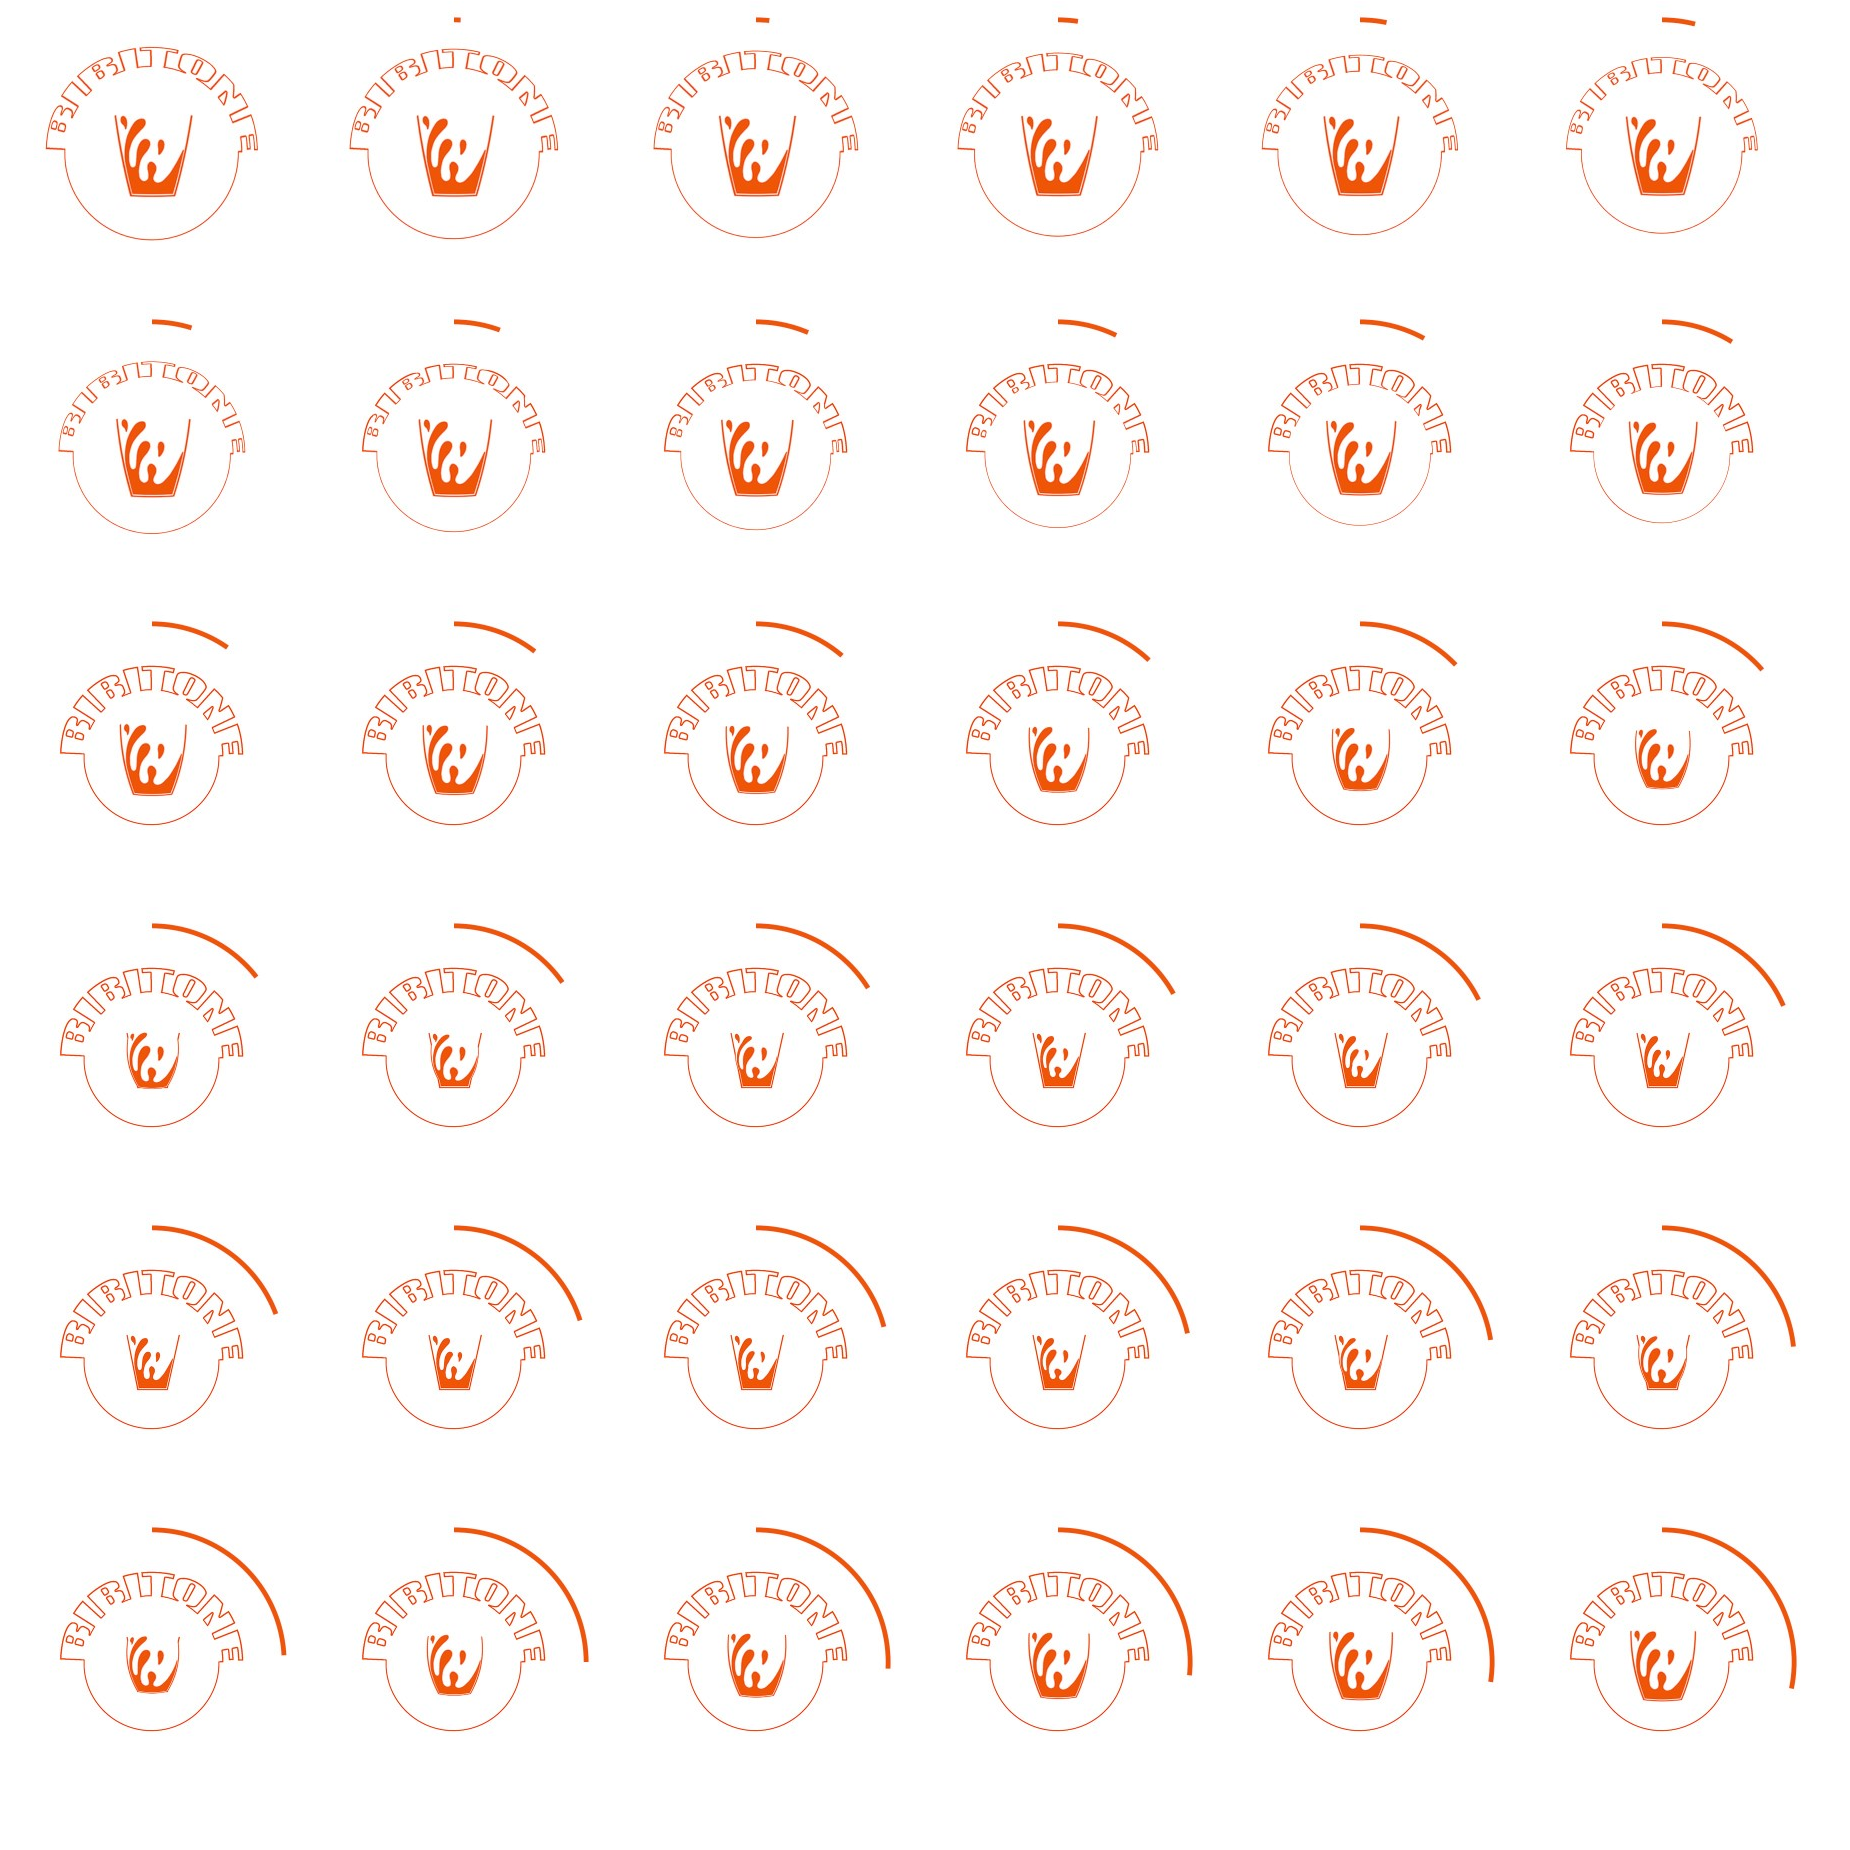
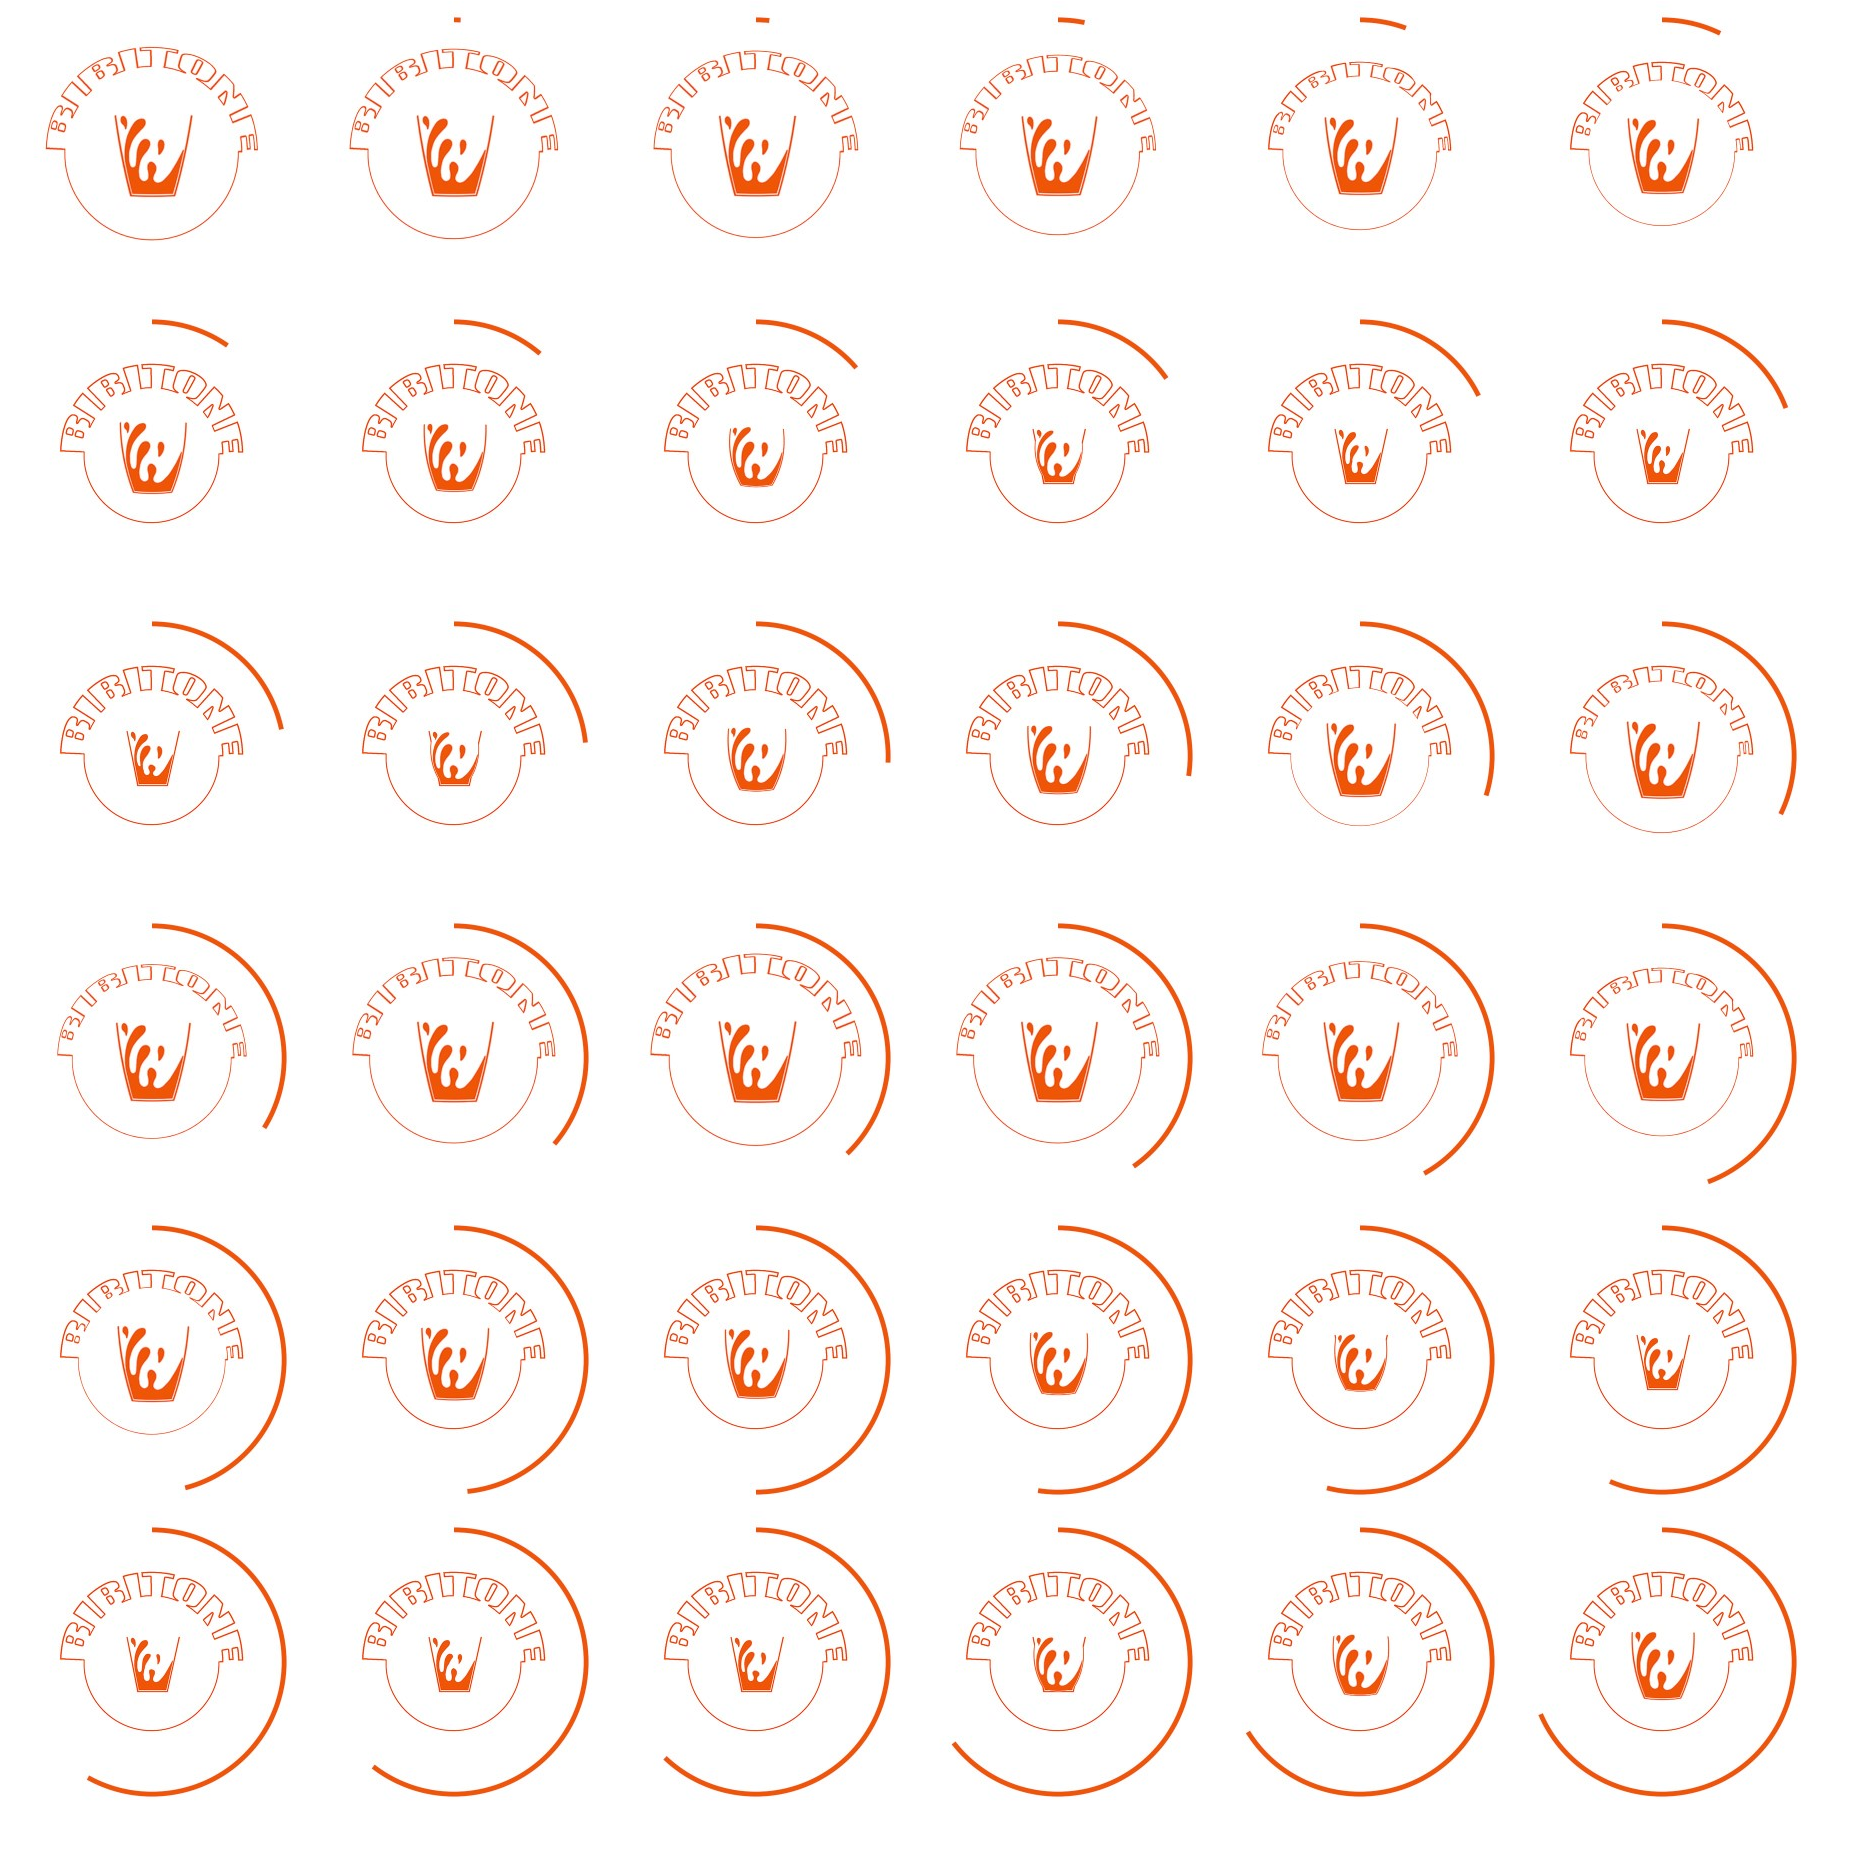
fewer frames

diff --git a/Pages.py b/Pages.py
@@ -94,7 +94,7 @@ class ProgressPage(Screen):
 
     def start_prog(self, time_len, caller, liquid):
         self.time_len = time_len
-        self.max = 125
+        self.max = 50
         self.caller = caller
         self.start = time.time()  # time in seconds
         time_delta = self.time_len/self.max
@@ -103,7 +103,7 @@ class ProgressPage(Screen):
     def update_prog_bar(self, dt):
         frame_num = int(
             ((time.time() - self.start) * self.max) / (self.time_len)) + 1
-        self.ids.prog_bar.source = f"atlas://images/prog_bar_atlas/progress_bar {frame_num:03} "
+        self.ids.prog_bar.source = f"atlas://images/prog_bar_atlas/progress_bar {frame_num:02}"
         if(frame_num >= self.max):
             Clock.unschedule(self.update_prog_bar)
             self.parent.current = self.caller
